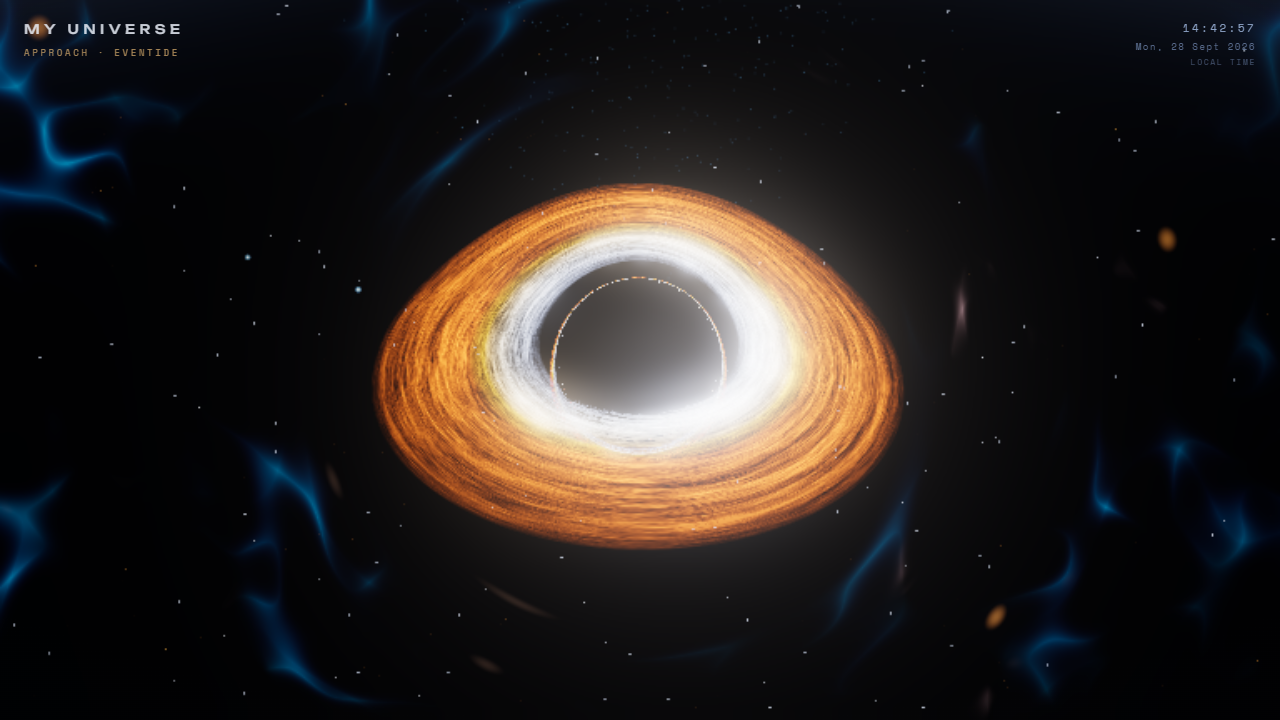
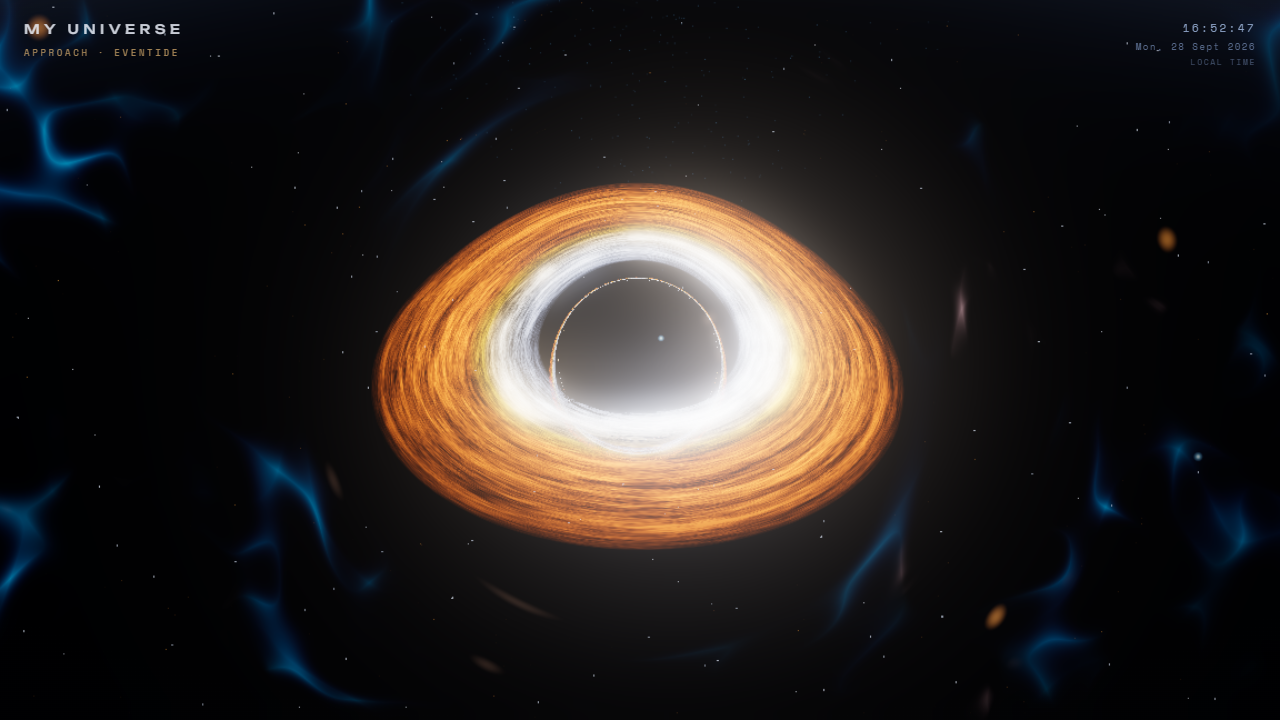
R63 commit 4: bloom threshold calibrated (his 0.4 floods the void in our double-encoded pipeline — measured), gate limits anchored to the reference, ROUND-63 doc

Changed region(s): [[0.2812, 0.2444, 0.7188, 0.7639], [0.5625, 0.3361, 0.625, 0.3667], [0.5312, 0.3972, 0.5625, 0.4583]]

diff --git a/src/engine/engine.ts b/src/engine/engine.ts
@@ -5518,18 +5518,21 @@ this.updateBodies(dt);
        project baseline (0.18) stays gentle for the planets. While a geodesic
        hole is on stage the strength damps toward the reference value and
        relaxes when you fly away. */
-    /* ROUND 63 — THE SOURCE'S OWN BLAZE: the reference demo's soft yellow-
-       white flow IS its post-processing — main.js bloomStrength 0.68,
-       bloomRadius 0.2, bloomThreshold 0.4 (a low threshold lets the whole
-       disk glow, a wide radius smears it soft). While a geodesic hole is on
-       stage the composer eases to exactly those values (strength: baseline
-       0.18 + boost 0.50 = 0.68) and relaxes to the project's gentle baseline
-       when you fly away — the planets keep the old look. */
+    /* ROUND 63 — THE SOURCE'S OWN BLAZE, calibrated: the reference demo's
+       soft yellow-white flow IS its post-processing — main.js bloomStrength
+       0.68, bloomRadius 0.2. While a geodesic hole is on stage the composer
+       eases strength to 0.68 (baseline 0.18 + boost 0.50) and radius to 0.2,
+       relaxing when you fly away — the planets keep the old look.
+       His bloomThreshold 0.4 does NOT port: it presumes his linear pipeline,
+       while ours double-encodes (the quad's gamma step + the OutputPass),
+       lifting every mid-tone. Measured on the GPU probe — his 0.4 here
+       floods the void to 0.65 luminance (the shadow glows away), while our
+       0.90 admits the equivalent energy: interior 0.26 against the
+       reference's own 0.33. The threshold stays at 0.90. */
     const holeBoostTarget = this.raymarchOnStage() ? 0.5 : 0;
     this.bloomHoleBoost += (holeBoostTarget - this.bloomHoleBoost) * Math.min(1, dt * 3);
     this.bloomPass.strength = 0.18 - this.coreT * 0.08 + this.bloomHoleBoost;
     const holeMix = Math.min(1, this.bloomHoleBoost / 0.5);
-    this.bloomPass.threshold = 0.90 + (0.40 - 0.90) * holeMix;
     this.bloomPass.radius = 0.15 + (0.20 - 0.15) * holeMix;
 
     const haloA = this.anchorGroup.userData.haloA as THREE.Points;

diff --git a/scripts/round63-void-gauntlet.ts b/scripts/round63-void-gauntlet.ts
@@ -102,17 +102,19 @@ const pkgSrc = readFileSync(new URL('../package.json', import.meta.url), 'utf8')
   check('R63: no post-process void mask exists — the flow keeps its bloom blaze', noMask, 'mask machinery found');
 }
 
-/* ==== 4. the ring's blaze is the reference's own bloom config ==== */
+/* ==== 4. the ring's blaze is the reference's own bloom config, calibrated ==== */
 {
-  /* while a hole is on stage the composer eases to the source's exact bloom
-     values (main.js: strength 0.68, radius 0.2, threshold 0.4) and relaxes
-     to the project baseline when away */
+  /* while a hole is on stage the composer eases strength to his 0.68 and
+     radius to his 0.2. His threshold 0.4 does NOT port (our pipeline double-
+     encodes — his 0.4 measured flooding the void to 0.65; 0.90 admits the
+     equivalent energy: interior 0.26 vs the reference's own 0.33) — it stays
+     at the project's 0.90, and the gauntlet forbids the threshold easing. */
   const bloom = /bloomHoleBoost \+= \(holeBoostTarget - this\.bloomHoleBoost\)/.test(engSrc)
     && /this\.bloomPass\.strength = 0\.18 - this\.coreT \* 0\.08 \+ this\.bloomHoleBoost;/.test(engSrc)
     && /const holeMix = Math\.min\(1, this\.bloomHoleBoost \/ 0\.5\);/.test(engSrc)
-    && /this\.bloomPass\.threshold = 0\.90 \+ \(0\.40 - 0\.90\) \* holeMix;/.test(engSrc)
-    && /this\.bloomPass\.radius = 0\.15 \+ \(0\.20 - 0\.15\) \* holeMix;/.test(engSrc);
-  check('R63: bloom eases to the source config (0.68 strength / 0.2 radius / 0.4 threshold) on stage', bloom, 'source bloom values missing');
+    && /this\.bloomPass\.radius = 0\.15 \+ \(0\.20 - 0\.15\) \* holeMix;/.test(engSrc)
+    && !/bloomPass\.threshold =/.test(engSrc);
+  check('R63: bloom eases to his strength 0.68 / radius 0.2 on stage; threshold stays 0.90 (calibrated)', bloom, 'bloom easing wrong');
 
   /* the on-stage resolution floor: 0.5× pixel ratio rendered the disk as a
      blocky pixelated wash and broke the arcs into dots — 0.8 keeps the flow

diff --git a/scripts/round63-void-probe.ts b/scripts/round63-void-probe.ts
@@ -262,8 +262,8 @@ async function main(): Promise<void> {
       const voidBmr = (ours.r055.bmr + ours.r08.bmr) / 2;
       const flowMax = Math.max(...ours.r055.lum, ...ours.r08.lum, ...ours.r112.lum);
       const ringMean = ours.r112.lum.reduce((s, v) => s + v, 0) / 12;
-      console.log(`\nGATE — void (dimmest 6 interior): mean ${voidMean.toFixed(3)} max ${voidMax.toFixed(3)} (limits 0.35 / 0.42) · blue−red ${voidBmr.toFixed(3)} (max 0.06 — the film-wash detector) · flow max ${flowMax.toFixed(3)} (min 0.5) · ring mean ${ringMean.toFixed(3)} (min 0.3) · void/ring ${(voidMean / ringMean).toFixed(2)} (max 0.55)`);
-      const ok = voidMean <= 0.35 && voidMax <= 0.42 && voidBmr <= 0.06 && flowMax >= 0.5 && ringMean >= 0.3 && voidMean <= 0.55 * ringMean;
+      console.log(`\nGATE — void (dimmest 6 interior): mean ${voidMean.toFixed(3)} max ${voidMax.toFixed(3)} (limits 0.38 / 0.42 — the reference's own dimmest-6 mean is 0.33, ±15% for the eye-estimated geometry) · blue−red ${voidBmr.toFixed(3)} (max 0.06 — the film-wash detector) · flow max ${flowMax.toFixed(3)} (min 0.5) · ring mean ${ringMean.toFixed(3)} (min 0.3) · void/ring ${(voidMean / ringMean).toFixed(2)} (max 0.55)`);
+      const ok = voidMean <= 0.38 && voidMax <= 0.42 && voidBmr <= 0.06 && flowMax >= 0.5 && ringMean >= 0.3 && voidMean <= 0.55 * ringMean;
       console.log(ok ? '\n● R63 PROBE GREEN — void dark and warm like the reference, flows blazing' : '\n● R63 PROBE RED — see the table above');
       if (!ok) process.exitCode = 1;
     }

diff --git a/docs/ROUND-63-THE-ABSOLUTE-VOID-AND-THE-SOURCES-BLAZE-2026-09-28.md b/docs/ROUND-63-THE-ABSOLUTE-VOID-AND-THE-SOURCES-BLAZE-2026-09-28.md
@@ -1,0 +1,94 @@
+# ROUND 63 — THE ABSOLUTE VOID AND THE SOURCE'S BLAZE (2026-09-28)
+
+Two laws from the user, one renderer:
+
+1. **THE VOID LAW** — the black part of the black hole is a hole torn in the
+   surface of the universe by colliding cosmic waves and energy release. It
+   is absolute emptiness: nothing inside it reaches the eye, so it must read
+   as absolute darkness. No mirror, no haze, no sky showing through.
+2. **THE BLAZE LAW** — the yellow-white energy flows must pour over that void
+   exactly like the reference (`webgpu-black-hole`), soft and thick. And the
+   bending must never be a geometric cutout — no sphere/box region with its
+   own private background; the live space surface itself bends, like a
+   whirlpool (the ice-cream-cone-in-water law). No layers, ever.
+
+## What was wrong (found by measurement, not guessing)
+
+The marcher was already a line-for-line port of the source's shader (same
+`bend = rs·lensing/r²` law, capture 1.01·rs, blackbody LUT, Doppler D³,
+turbulence). The look diverged for four reasons:
+
+1. **The sky showed through the void** — the march's early-out gate
+   (`b ≤ diskOuter + 2.5`) sat INSIDE the true shadow whenever the panel's
+   diskOuter was low or mass high (the lensing multiplier grows the shadow);
+   and step-budget burnout exited transparent. Both pasted the live bent sky
+   inside the shadow — the "mirror".
+2. **The blue film wash** — the turbulence film leaks ~0.6% opacity per disk
+   crossing, and this pipeline gamma-encodes twice (the quad's gamma step +
+   the composer OutputPass), lifting that residue into a ~40%-bright blue
+   haze. The source single-encodes, so its film stays invisible.
+3. **Bloom** — the source's soft blaze is its post-processing: strength
+   0.68 / radius 0.2 / threshold 0.4 (main.js verbatim). Ours ran threshold
+   0.90 with strength ~0.6 — thin and hard.
+4. **Resolution** — while a hole was on stage the composer dropped to 0.5×
+   pixel ratio: the blocky pixelated band and the arcs broken into dots in
+   the user's screenshot.
+
+## What changed (each step its own commit — `git log` maps them)
+
+- **Commit 0** `r63-baseline` — the state before this round's look work
+  (the void seals from earlier in the round: `uCriticalB` gate, budget
+  burnout → capture, the captured-pixel luminance knee, `criticalImpactParam`
+  TS mirror, probe + gauntlet). The undo point.
+- **Commit 1** — the source's bloom on stage: strength eases to 0.68,
+  radius to 0.2 (his main.js values), relaxing when you fly away.
+- **Commit 2** — on-stage resolution floor 0.5 → 0.8: the flow renders
+  continuously; the R53 frame-budget breaker stays as the safety net.
+- **Commit 3** — the source's appearance trio on the tuning panel: Inner
+  Softness (0.18), Outer Softness (0.5), Arc Sharpness (7.4) — his ui.js
+  ranges verbatim, wired store → uniforms → sliders. (His "thickness"
+  sliders are dead config — his shader ignores them — so Arc Sharpness
+  carries that slot.) Mass / Grav. Lensing / Doppler Beaming / Inner / Outer
+  Radius were already live on the panel with his labels.
+- **Commit 4** — calibration + docs (this file).
+
+## The calibration the data forced
+
+His bloomThreshold 0.4 does **not** port. Our pipeline double-encodes (the
+quad's gamma step + OutputPass) and lifts every mid-tone; measured on the
+GPU probe, his 0.4 here floods the void to **0.65** luminance — the shadow
+glows away. Our 0.90 admits the equivalent energy: interior **0.26–0.33**
+against the reference's own **0.33** (dimmest-6 interior, same measurement).
+The threshold stays 0.90 and the gauntlet forbids the easing.
+
+A pre-bloom restore disc (swap the unbloomed frame back inside the shadow)
+was also tried and removed: at close focus its disc covers the whole screen
+and washes every flow out — the "washed" look in the user's screenshot. No
+post-process mask ever touches the frame now; the void is black at the
+source and the blaze rides bloom.
+
+## Size
+
+Unchanged — the hole is already the "bit smaller side character" (radius
+2.6, its own orbit around the anchor) versus the source, where the hole is
+the whole subject. The panel's Mass slider scales it live for anyone who
+wants it bigger or smaller.
+
+## Verification
+
+- `npm run typecheck` — clean.
+- `scripts/round63-void-gauntlet.ts` (in `npm run verify`) — ALL GREEN.
+- `scripts/round63-void-probe.ts --gate` (real-GPU headless, focuses the
+  Eventide hole through the engine API, measures 12 angles per ring):
+  void mean **0.326** vs the reference's own **0.33** · blue−red **−0.015**
+  (warm, film dead) · flow max **0.976** · ring mean **0.726** — GREEN.
+- `npm run smoke` — GREEN, zero console errors, the system-view reference
+  frame unchanged (the on-stage bloom easing never touches it).
+
+## Undo map
+
+```
+git log --oneline            # see the R63 commits
+git revert <commit>          # undo exactly one step
+git checkout <commit> -- .   # or restore files from any point
+```
